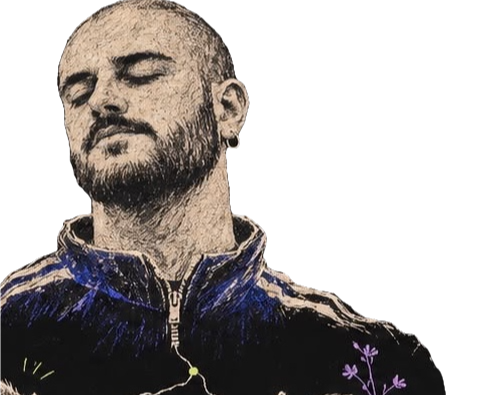
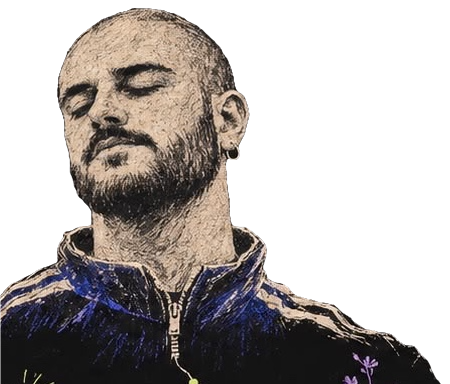
Redes con reels de Instagram, foto centrada y rata que respeta la silueta
Sección «redes» con @kailkob: cinco reels en móviles dibujados y enlaces
a Instagram, TikTok y YouTube. Instagram y TikTok también en contacto y
en la ficha para buscadores. Retrato recortado y centrado; la rata salta
siguiendo la silueta real de la foto.

diff --git a/index.html b/index.html
@@ -29,7 +29,9 @@
     "sameAs": [
       "https://open.spotify.com/artist/3jYSHWbpXuVlIcGAhi24lI",
       "https://music.apple.com/us/artist/kailkob/1797300511",
-      "https://www.youtube.com/@kailkob"
+      "https://www.youtube.com/@kailkob",
+      "https://www.instagram.com/kailkob/",
+      "https://www.tiktok.com/@kailkob"
     ],
     "album": [
       { "@type": "MusicAlbum", "name": "BLV W/ME", "albumReleaseType": "https://schema.org/SingleRelease", "datePublished": "2025-09-18", "url": "https://music.apple.com/us/album/blv-w-me-single/1841047244" },
@@ -189,6 +191,24 @@
     .paused, .paused * { animation-play-state: paused !important; }
     @media (prefers-reduced-motion: reduce) { .walk-track .mover { animation: none; transform: translateX(70%); } }
 
+    /* ---------- redes: móviles con reels ---------- */
+    .social { padding: clamp(3rem, 7vw, 5rem) 0; }
+    .handle { text-align: center; margin: -.6rem 0 2rem; font-size: clamp(1.4rem, 3vw, 1.9rem); letter-spacing: .08em; }
+    .handle a { border-bottom: 2px solid var(--lime); }
+    @media (hover: hover) and (pointer: fine) { .handle a:hover { color: var(--lime); } }
+    .phones { list-style: none; margin: 0 auto; padding: 1.5rem max(var(--gutter), calc(50vw - 39rem)) 2rem; display: flex; gap: clamp(1.2rem, 3vw, 2.4rem); overflow-x: auto; scroll-snap-type: x mandatory; scrollbar-width: none; overscroll-behavior-x: contain; }
+    .phones::-webkit-scrollbar { display: none; }
+    .phone { --w: clamp(12rem, 22vw, 13.5rem); flex: 0 0 var(--w); scroll-snap-align: center; aspect-ratio: 9 / 18.5; padding: 12px 9px; border-radius: 2.2rem; background: var(--ink); transform: rotate(var(--t)); position: relative; }
+    .phone::after { content: ""; position: absolute; inset: 0; border: 2px solid var(--chalk); border-radius: 2.2rem; filter: url(#ink); pointer-events: none; }
+    .phone::before { content: ""; position: absolute; top: 7px; left: 50%; width: 30%; height: 7px; margin-left: -15%; border-radius: 9px; background: var(--chalk); opacity: .85; z-index: 2; }
+    .phone-screen { position: relative; width: 100%; height: 100%; border-radius: 1.6rem; overflow: hidden; background: #000; filter: none; }
+    .phone-screen iframe { position: absolute; top: -54px; left: 0; width: 326px; height: calc(100% + 260px); border: 0; transform-origin: 0 0; transform: scale(var(--s, .75)); }
+    .phone:nth-child(even) { margin-top: 2.5rem; }
+    .social-links { display: flex; flex-wrap: wrap; justify-content: center; gap: .8rem 1.2rem; margin-top: .5rem; }
+    .social-links a { display: inline-flex; align-items: center; gap: .6rem; padding: .5rem 1.2rem .4rem; border: 1.6px solid var(--chalk); border-radius: 999px; font-size: 1.25rem; letter-spacing: .08em; }
+    .social-links svg { width: 1.3rem; height: 1.3rem; }
+    @media (hover: hover) and (pointer: fine) { .social-links a:hover { background: var(--lime); color: var(--ink); border-color: var(--lime); } }
+
     /* ---------- carrusel de videoclips ---------- */
     .clips { padding: clamp(3rem, 7vw, 5rem) 0; }
     .carousel { position: relative; padding-bottom: .5rem; }
@@ -241,7 +261,7 @@
     .band::after { content: ""; position: absolute; inset: 0; background: linear-gradient(transparent 0 46%, #2a1d3a22 46% 48%, transparent 48%); pointer-events: none; }
     .stage { position: relative; padding-top: clamp(3.4rem, 6vw, 5rem); }
     .band { top: auto !important; bottom: clamp(6.5rem, 12vw, 7.5rem); }
-    .cutout { position: relative; z-index: 2; display: block; width: min(96vw, 46rem); margin: 0 auto; -webkit-mask-image: linear-gradient(#000 64%, transparent 97%), linear-gradient(90deg, transparent 0, #000 14%, #000 86%, transparent 100%); -webkit-mask-composite: source-in; mask-image: linear-gradient(#000 64%, transparent 97%), radial-gradient(120% 95% at 50% 0, #000 70%, transparent 100%); mask-composite: intersect; }
+    .cutout { position: relative; z-index: 2; display: block; width: min(90vw, 42rem); margin: 0 auto; -webkit-mask-image: linear-gradient(#000 64%, transparent 97%), linear-gradient(90deg, transparent 0, #000 14%, #000 86%, transparent 100%); -webkit-mask-composite: source-in; mask-image: linear-gradient(#000 64%, transparent 97%), radial-gradient(120% 95% at 50% 0, #000 70%, transparent 100%); mask-composite: intersect; }
     .cutout.inked { filter: grayscale(1) contrast(2.1) brightness(1.12) sepia(.18) drop-shadow(0 .8rem 1.2rem rgb(0 0 0 / .55)); }
     .tagline { margin-top: 1.5rem; font-size: clamp(1.25rem, 3vw, 1.7rem); letter-spacing: .1em; }
     .scroll-hint { display: inline-block; margin-top: 1rem; font-size: 1.05rem; color: var(--muted); }
@@ -379,6 +399,8 @@
     </filter>
     <symbol id="i-spotify" viewBox="0 0 24 24"><g fill="none" stroke="currentColor" stroke-width="1.8" stroke-linecap="round"><circle cx="12" cy="12" r="10"/><path d="M7 9.5c3.5-1 7-.6 10 1M7.6 12.7c2.8-.7 5.6-.4 8 .9M8.3 15.6c2.2-.5 4.3-.2 6.1.7"/></g></symbol>
     <symbol id="i-apple" viewBox="0 0 24 24"><g fill="none" stroke="currentColor" stroke-width="1.8" stroke-linecap="round" stroke-linejoin="round"><path d="M9 18V6l11-2v12"/><circle cx="6.5" cy="18" r="2.5"/><circle cx="17.5" cy="16" r="2.5"/></g></symbol>
+    <symbol id="i-instagram" viewBox="0 0 24 24"><g fill="none" stroke="currentColor" stroke-width="1.8"><rect x="3" y="3" width="18" height="18" rx="5"/><circle cx="12" cy="12" r="4"/><circle cx="17.3" cy="6.7" r=".9" fill="currentColor"/></g></symbol>
+    <symbol id="i-tiktok" viewBox="0 0 24 24"><g fill="none" stroke="currentColor" stroke-width="1.8" stroke-linecap="round" stroke-linejoin="round"><path d="M14 3v11.5a3.5 3.5 0 1 1-3.5-3.5"/><path d="M14 3c.4 2.6 2.2 4.4 5 4.6"/></g></symbol>
     <symbol id="i-youtube" viewBox="0 0 24 24"><g fill="none" stroke="currentColor" stroke-width="1.8" stroke-linejoin="round"><rect x="2" y="5" width="20" height="14" rx="4"/><path d="M10 9l5 3-5 3z" fill="currentColor"/></g></symbol>
     <!-- Dibujos a línea (estilo tinta): stroke = currentColor -->
     <filter id="ink" x="-5%" y="-5%" width="110%" height="110%"><feTurbulence type="fractalNoise" baseFrequency=".045" numOctaves="2" seed="7"/><feDisplacementMap in="SourceGraphic" scale="2.2"/></filter>
@@ -446,6 +468,7 @@
         <a href="#canciones">canciones</a>
         <a href="#videoclips">videoclips</a>
         <a href="#textos">textos</a>
+        <a href="#redes">redes</a>
         <a href="#sobre-mi">sobre mí</a>
       </nav>
       <a class="logo" href="#inicio" translate="no">KAILKOB</a>
@@ -464,7 +487,7 @@
         <div class="band lilac-paper" aria-hidden="true"><div class="run" translate="no"><span>kailkob · kailkob · kailkob · kailkob ·</span><span>kailkob · kailkob · kailkob · kailkob ·</span><span>kailkob · kailkob · kailkob · kailkob ·</span><span>kailkob · kailkob · kailkob · kailkob ·</span></div></div>
         <span class="critter hero-rat" data-c="ratWalk" aria-hidden="true"></span>
         <!-- EDITAR: foto provisional recortada (PNG transparente); sustituye img/kailkob-recorte.png por la definitiva con el mismo nombre -->
-        <img class="cutout inked" src="img/kailkob-recorte.png?v=2" alt="Retrato dibujado de Kailkob con los ojos cerrados" width="500" height="395" fetchpriority="high">
+        <img class="cutout inked" src="img/kailkob-recorte.png?v=3" alt="Retrato dibujado de Kailkob con los ojos cerrados" width="450" height="384" fetchpriority="high">
       </div>
       <div class="wrap">
       </div>
@@ -503,6 +526,29 @@
           <button class="press" type="button" id="clip-next" aria-label="Videoclip siguiente">→</button>
         </div>
         <div class="dots" id="clip-dots"></div>
+      </div>
+    </section>
+
+    <div class="wrap"><div class="vine-rule" aria-hidden="true"></div></div>
+
+    <!-- REDES -->
+    <section class="social" id="redes" aria-labelledby="h-redes">
+      <div class="wrap">
+        <h2 class="sec-title" id="h-redes" style="justify-content:center"><span class="sr-only">Redes</span><span class="ransom" aria-hidden="true"><span class="r1" style="--r:5deg;--y:-5px">r</span><span class="r4" style="--r:-3deg;--y:-2px">e</span><span class="r3" style="--r:-8deg;--y:-2px">d</span><span class="r4" style="--r:-8deg;--y:0px">e</span><span class="r1" style="--r:5deg;--y:-5px">s</span></span></h2>
+        <p class="handle"><a href="https://www.instagram.com/kailkob/" target="_blank" rel="noopener" translate="no">@kailkob</a></p>
+      </div>
+      <!-- EDITAR: para cambiar los vídeos, pon el código de cada reel (instagram.com/reel/CÓDIGO) -->
+      <ul class="phones" aria-label="Últimos reels de Instagram">
+            <li class="phone" style="--t:-3deg"><div class="phone-screen"><iframe src="https://www.instagram.com/reel/DGnNfRVIE0M/embed/" title="Reel de Instagram de Kailkob (1 de 5)" loading="lazy" scrolling="no" allowtransparency="true" referrerpolicy="strict-origin-when-cross-origin"></iframe></div></li>
+            <li class="phone" style="--t:2deg"><div class="phone-screen"><iframe src="https://www.instagram.com/reel/DGmGoYPIu2x/embed/" title="Reel de Instagram de Kailkob (2 de 5)" loading="lazy" scrolling="no" allowtransparency="true" referrerpolicy="strict-origin-when-cross-origin"></iframe></div></li>
+            <li class="phone" style="--t:-1.5deg"><div class="phone-screen"><iframe src="https://www.instagram.com/reel/DGk8GzVoJ_C/embed/" title="Reel de Instagram de Kailkob (3 de 5)" loading="lazy" scrolling="no" allowtransparency="true" referrerpolicy="strict-origin-when-cross-origin"></iframe></div></li>
+            <li class="phone" style="--t:3deg"><div class="phone-screen"><iframe src="https://www.instagram.com/reel/DGfyfezI3O3/embed/" title="Reel de Instagram de Kailkob (4 de 5)" loading="lazy" scrolling="no" allowtransparency="true" referrerpolicy="strict-origin-when-cross-origin"></iframe></div></li>
+            <li class="phone" style="--t:-2deg"><div class="phone-screen"><iframe src="https://www.instagram.com/reel/DGdOV9mI7Gm/embed/" title="Reel de Instagram de Kailkob (5 de 5)" loading="lazy" scrolling="no" allowtransparency="true" referrerpolicy="strict-origin-when-cross-origin"></iframe></div></li>
+      </ul>
+      <div class="wrap social-links">
+        <a class="press" href="https://www.instagram.com/kailkob/" target="_blank" rel="noopener"><svg class="ink" aria-hidden="true"><use href="#i-instagram"/></svg>Instagram</a>
+        <a class="press" href="https://www.tiktok.com/@kailkob" target="_blank" rel="noopener"><svg class="ink" aria-hidden="true"><use href="#i-tiktok"/></svg>TikTok</a>
+        <a class="press" href="https://www.youtube.com/@kailkob" target="_blank" rel="noopener"><svg class="ink" aria-hidden="true"><use href="#i-youtube"/></svg>YouTube</a>
       </div>
     </section>
 
@@ -578,7 +624,8 @@
               <li><a class="press" href="https://open.spotify.com/artist/3jYSHWbpXuVlIcGAhi24lI" target="_blank" rel="noopener"><span><svg class="ink" aria-hidden="true"><use href="#i-spotify"/></svg>Spotify</span></a></li>
               <li><a class="press" href="https://music.apple.com/us/artist/kailkob/1797300511" target="_blank" rel="noopener"><span><svg class="ink" aria-hidden="true"><use href="#i-apple"/></svg>Apple Music</span></a></li>
               <li><a class="press" href="https://www.youtube.com/@kailkob" target="_blank" rel="noopener"><span><svg class="ink" aria-hidden="true"><use href="#i-youtube"/></svg>YouTube</span></a></li>
-              <!-- EDITAR: Instagram -->
+              <li><a class="press" href="https://www.instagram.com/kailkob/" target="_blank" rel="noopener"><span><svg class="ink" aria-hidden="true"><use href="#i-instagram"/></svg>Instagram</span></a></li>
+              <li><a class="press" href="https://www.tiktok.com/@kailkob" target="_blank" rel="noopener"><span><svg class="ink" aria-hidden="true"><use href="#i-tiktok"/></svg>TikTok</span></a></li>
             </ul>
           </div>
         </div>
@@ -820,16 +867,28 @@
       const band = stage && stage.querySelector('.band'), fig = stage && stage.querySelector('.cutout');
       if (!rat || !band || !fig) return;
       const TILT = Math.tan(3 * Math.PI / 180);
-      let x = -200, last = 0, visible = true;
+      let x = -200, last = 0, visible = true, tops = null;
+      // silueta de la foto: primera fila opaca de cada columna
+      function readSilhouette() {
+        try {
+          const c = document.createElement('canvas'); c.width = fig.naturalWidth; c.height = fig.naturalHeight;
+          const g = c.getContext('2d'); g.drawImage(fig, 0, 0);
+          const d = g.getImageData(0, 0, c.width, c.height).data; tops = new Float32Array(c.width).fill(Infinity);
+          for (let ix = 0; ix < c.width; ix++) for (let iy = 0; iy < c.height; iy++) if (d[(iy * c.width + ix) * 4 + 3] > 40) { tops[ix] = iy; break; }
+        } catch (e) { tops = null; }
+      }
+      if (fig.complete && fig.naturalWidth) readSilhouette(); else fig.addEventListener('load', readSilhouette);
       new IntersectionObserver(es => { visible = es[0].isIntersecting; }).observe(stage);
       function geo() {
         const W = stage.clientWidth, rw = rat.offsetWidth, rh = rat.offsetHeight;
         const bandTop = band.offsetTop + band.offsetHeight * .1, cx = W / 2;
         const ground = px => bandTop - (px - cx) * TILT;            // borde superior de la tira (inclinada)
         const fl = fig.offsetLeft, fw = fig.offsetWidth, ft = fig.offsetTop, fh = fig.offsetHeight;
-        const j0 = fl + fw * .02 - rw * .55, j1 = fl + fw * .9 - rw * .35;   // tramo ocupado por la figura
-        const peak = ft + fh * .11 - rh * .75;                          // holgado por encima de la cabeza
-        return { W, rw, rh, ground, j0, j1, peak };
+        const j0 = fl - rw * .7, j1 = fl + fw + rw * .7;                    // salta antes de tocar los hombros
+        const peak = ft + fh * .11 - rh * 1.15;                          // holgado por encima de la cabeza
+        const sc = fw / (fig.naturalWidth || 1);
+        const topAt = px => { if (!tops) return Infinity; const ix = Math.floor((px - fl) / sc); return ix < 0 || ix >= tops.length ? Infinity : ft + tops[ix] * sc; };
+        return { W, rw, rh, ground, j0, j1, peak, topAt };
       }
       function place(g, t) {
         const c = x + g.rw / 2;
@@ -839,6 +898,10 @@
           y = base + (top - base) * Math.pow(Math.sin(Math.PI * u), .6);
           rot = -Math.cos(Math.PI * u) * 24 - 3; air = true;
         }
+        // nunca por debajo de la silueta (con margen)
+        let minTop = Infinity;
+        for (let px = x + g.rw * .08; px < x + g.rw * .92; px += 3) minTop = Math.min(minTop, g.topAt(px));
+        if (minTop < Infinity) { const lim = minTop - g.rh * .95 - 12; if (y > lim) { y = lim; air = true; } }
         rat.style.transform = `translate(${x}px, ${y}px) rotate(${rot}deg)`;
         rat.classList.toggle('airborne', air); rat.classList.toggle('walking', !air);
       }
@@ -857,6 +920,12 @@
       place(geo());
       requestAnimationFrame(frame);
     })();
+
+    const fitPhones = () => document.querySelectorAll('.phone-screen').forEach(sc => {
+      const f = sc.querySelector('iframe'); if (!f) return;
+      const k = sc.clientWidth / 326; f.style.setProperty('--s', k); f.style.height = (sc.clientHeight / k + 260) + 'px';
+    });
+    fitPhones(); addEventListener('resize', fitPhones);
 
     const m = location.hash.match(/^#cancion-(.+)$/);
     if (m && SONGS.some(x => x.id === m[1])) { select(m[1], false); addEventListener('load', () => setTimeout(() => $('canciones').scrollIntoView({ behavior: 'instant' }), 60)); }
